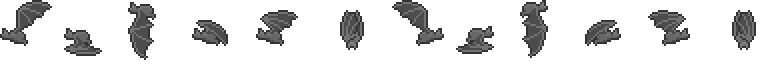
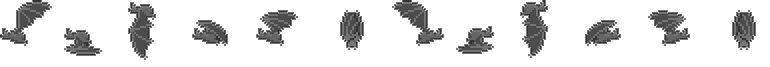
fixed bats and bullets and life lost
All that stuff

diff --git a/platformer/main.js b/platformer/main.js
@@ -6,9 +6,9 @@ window.addEventListener('resize', resizeCanvas, false);
 function resizeCanvas()
 {
 	canvas.width = canvas.width; 
-	canvas.height = window.innerHeight - 500;
+	canvas.height = 520;
 }
-
+resizeCanvas();
 
 var startFrameMillis = Date.now();
 var endFrameMillis = Date.now();
@@ -228,8 +228,7 @@ cells[layerIdx][y][x+1] = 1;
  }
  }
 
-
-idx = 0;
+ idx = 0;
 for(var y = 0; y < level1.layers[LAYER_OBJECT_ENEMIES].height; y++) {
 for(var x = 0; x < level1.layers[LAYER_OBJECT_ENEMIES].width; x++) {
 if(level1.layers[LAYER_OBJECT_ENEMIES].data[idx] != 0) {
@@ -241,7 +240,7 @@ enemies.push(e);
 idx++;
 }
 } 
-
+ 
 cells[LAYER_OBJECT_TRIGGERS] = [];
 idx = 0;
 for(var y = 0; y < level1.layers[LAYER_OBJECT_TRIGGERS].height; y++) {
@@ -371,6 +370,7 @@ bullets.splice(i, 1);
 break;
 }
 }
+
 for(var i=0; i<bullets.length; i++){
 	var tx = pixelToTile(bullets[i].position.x);
     var ty = pixelToTile(bullets[i].position.y);
@@ -496,6 +496,8 @@ var win = false;
 var firstGameOver = true; 
 var gotHighScore = false;
 function runGameOver(){
+	context.drawImage(gameBackground, 0, 0);
+	
 	if(firstGameOver == true){
 		firstGameOver = false; 
 		if(score >= highscore){
@@ -540,6 +542,8 @@ function runGameOver(){
 	  viewOffset.x = 0;
 	  player.sprite.setAnimation(ANIM_IDLE_RIGHT);
 	  win = false;
+	  enemies.length = 0;
+	  initialize();
 	  score = 0; 
 	}
 	
@@ -568,6 +572,8 @@ context.strokeText("Norris!", SCREEN_WIDTH/2, SCREEN_HEIGHT/2);
 
 var lifelosttime = 1;
 function runLifeLost(deltaTime){
+	context.drawImage(gameBackground, 0, 0);
+	
 	lifelosttime -= deltaTime; 
 	if(lifelosttime <= 0){
 		gameState = STATE_GAME;
@@ -576,11 +582,13 @@ function runLifeLost(deltaTime){
 		viewOffset.x = 0;
 	}
 	
+	context.fillStyle = "#DEF2FB";
+	context.fillRect(SCREEN_WIDTH/2 - 200, SCREEN_HEIGHT/2 - 33, 400, 50)
 	
+	
+	context.fillStyle = "black";
 	context.font = "32px Franklin";
 	context.textAling = "center"; 
-	context.fillStyle = "black";
-	
 	context.fillText("Life Lost! Good Job!", SCREEN_WIDTH/2, SCREEN_HEIGHT/2);
 }
 

diff --git a/platformer/bullet.js b/platformer/bullet.js
@@ -1,7 +1,7 @@
 var Bullet = function(x, y, moveRight) {	
-	this.sprite = new Sprite("bullet.png");
-    this.sprite.buildAnimation(1, 1, 32, 32, -1, [0]);
-    this.sprite.setAnimationOffset(0, 0, 0);
+	this.sprite = new Sprite("bullet4.png");
+    this.sprite.buildAnimation(1, 1, 50, 50, -1, [0]);
+    this.sprite.setAnimationOffset(0, 0, -20);
     this.sprite.setLoop(0, false);
     this.position = new Vector2(x, y);
     this.velocity = new Vector2();

diff --git a/platformer/enemy.js b/platformer/enemy.js
@@ -2,9 +2,6 @@ var Enemy = function(x, y) {
 	this.sprite = new Sprite("batEnemy.png");
     this.sprite.buildAnimation(12, 8, 64, 64, 0.2, [0, 1, 2, 3, 4]);
 	this.sprite.buildAnimation(12, 8, 64, 64, 0.2, [6, 7, 8, 9, 10]);
-	for(var i=0; i<ANIM_MAXIMUM; i++){
-	this.sprite.setAnimationOffset(0, 1, -50);
-	}
     this.position = new Vector2(x, y);
     this.velocity = new Vector2();
     this.moveRight = true;
